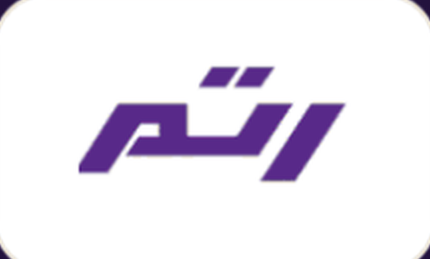
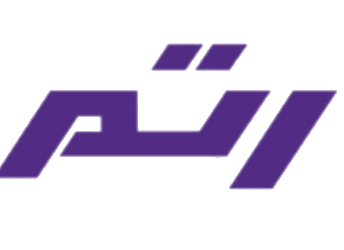
اعتماد شعارات المنصات المرسلة
كورة شو وماتشز جولز وجولة ومضرب ورتم بالصور المعتمدة (خلفياتها مفرّغة)،
ودكة وحنكة وممر باقية SVG لأنها فيكتور

Claude-Session: https://claude.ai/code/session_01U47EGGcUCMVWsC3JqQkpnF

diff --git a/site.html b/site.html
@@ -1684,13 +1684,13 @@ addEventListener('keydown', e => { if (e.key === 'Escape') closeRoster(); });
 // رابط ممر — عدّله هنا وينطبق على كل المنصات المرتبطة به
 const MAMAR = 'https://youtube.com/@mmr_sa1';   // ممر وبرامجها
 const PLATFORMS = [
-  {f:'koorashow.svg', s:'koorashow',   n:'كورة شو',      en:'Koora Show',    d:'منصة إعلام رياضي سعودية بجمهورها وصنّاع محتواها.', de:'A Saudi sports media platform.', u:'https://www.snapchat.com/@koorashow_ar'},
+  {s:'koorashow',   n:'كورة شو',      en:'Koora Show',    d:'منصة إعلام رياضي سعودية بجمهورها وصنّاع محتواها.', de:'A Saudi sports media platform.', u:'https://www.snapchat.com/@koorashow_ar'},
   {s:'matchesgoals',n:'Matches Goals',en:'Matches Goals', d:'بيانات المباريات وأبرز اللقطات لجمهور كرة القدم.',   de:'Match data and highlights.',     u:'https://www.snapchat.com/@kshow_ar'},
   {s:'jawlah',      n:'جولة',        en:'Jawlah',        d:'جولات وتغطيات رياضية بالفيديو القصير.',            de:'Sports rounds in short video.',  u:'https://www.snapchat.com/@golah_sa'},
   {s:'midrab',      n:'مضرب',        en:'Midrab',        d:'منصة مجتمعية حول رياضات المضرب.',                  de:'Racket sports community.',       u:MAMAR},
   {f:'dakkah.svg', s:'dakkah',      n:'دكة',         en:'Dakkah',        d:'محتوى الرأي وحوار الجماهير.',                      de:'Fan opinion content.',           u:MAMAR},
   {f:'hankah.svg', s:'hankah',      n:'حنكة',        en:'Hankah',        d:'محتوى ترفيهي بطابع تنافسي.',                       de:'Competitive entertainment.',     u:MAMAR},
-  {f:'ratm.svg', s:'ratm',        n:'رتم',         en:'Ratm',          d:'محتوى ثقافي ومعاصر لجمهور أصغر سناً.',             de:'Culture and lifestyle.',         u:MAMAR},
+  {s:'ratm',        n:'رتم',         en:'Ratm',          d:'محتوى ثقافي ومعاصر لجمهور أصغر سناً.',             de:'Culture and lifestyle.',         u:MAMAR},
   {f:'mamar.svg', s:'mamar',       n:'ممر',         en:'Mamar',         d:'نظام إدارة العمل الداخلي: المهام والعملاء والتقارير.', de:'Our internal work management system.', u:MAMAR},
 ];
 const pcard = x => `
